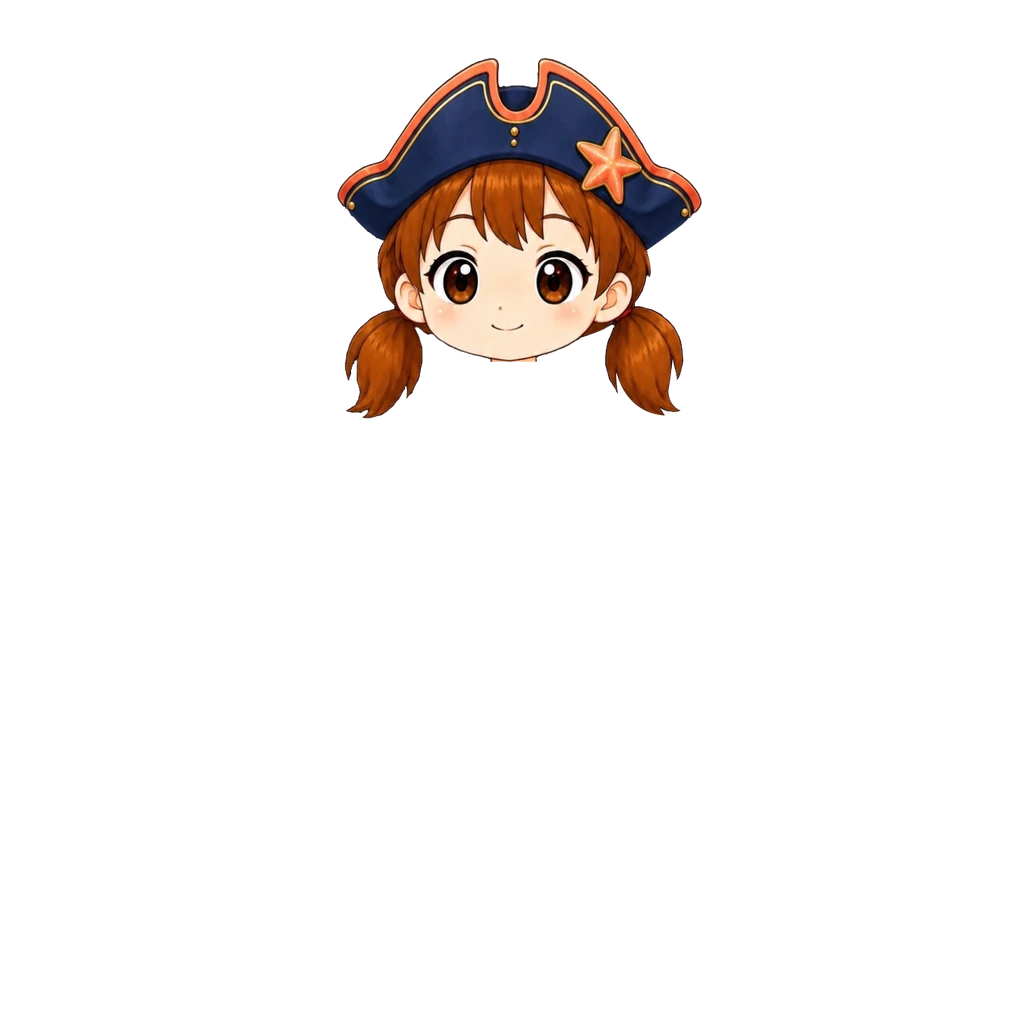
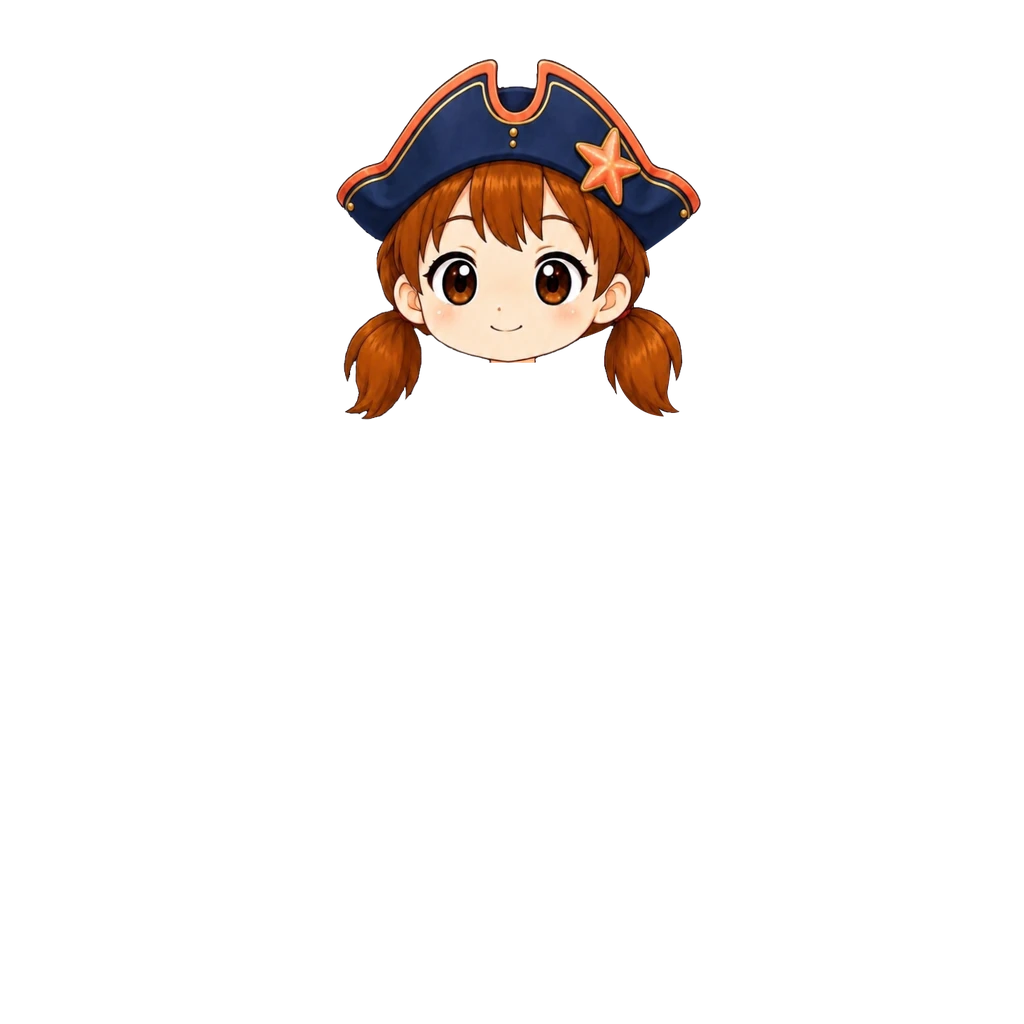
꼬마해적 모자(여아) 아래로 1·왼쪽 1 (#873)
원점 (337,57)→(336,58). img ?v=5.

Claude-Session: https://claude.ai/code/session_018maNuYqDfFyRSe9uKpZhPR

diff --git a/src/data/avatarEquipment.js b/src/data/avatarEquipment.js
@@ -221,8 +221,9 @@ export const AVATAR_CATALOG = [
   { id: "hat_picnic",     slot: "hat",   label: "딸기 밀짚모자", emoji: "👒", price:DECOR_PRICE.rare, rarity: "rare", theme: "picnic", forGender: "girl", hidesHead: true, img: "assets/avatar/hat/picnic-hat-girl.webp?v=4", thumb: "assets/avatar/thumb/hat_picnic.webp" },
   /* [2026-10-04] 꼬마해적 모자 새 원화로 교체 — 남색 삼각 해적모(주황 테두리·불가사리) + 얼굴·양갈래 머리 한 장(사용자 원화 521×517).
      들꽃 머리띠와 같은 방식(hidesHead) — 얼굴 템플릿 매칭(일치 0.948)으로 배율 0.700, 원점 (337,57). 아래는 자르지 않음.
-     탑재 상자 (337,57,702,419). img ?v=4. */
-  { id: "hat_pirate",     slot: "hat",   label: "꼬마해적 모자",   emoji: "🏴☠", price:DECOR_PRICE.epic, rarity: "epic", theme: "pirate", forGender: "girl", hidesHead: true, img: "assets/avatar/hat/pirate-hat-girl.webp?v=4", thumb: "assets/avatar/thumb/hat_pirate.webp" },
+     탑재 상자 (337,57,702,419). img ?v=4.
+     [2026-10-04] 사용자 조정 — 아래로 1·왼쪽으로 1(원점 (336,58)). 탑재 상자 (336,58,701,420). img ?v=5. */
+  { id: "hat_pirate",     slot: "hat",   label: "꼬마해적 모자",   emoji: "🏴☠", price:DECOR_PRICE.epic, rarity: "epic", theme: "pirate", forGender: "girl", hidesHead: true, img: "assets/avatar/hat/pirate-hat-girl.webp?v=5", thumb: "assets/avatar/thumb/hat_pirate.webp" },
   /* 남아 사파리 모자 [2026-10-02] — 모자+얼굴 한 장(사용자 원화)이라 hidesHead: 쓰면 머리카락 머리 장이 빠지고
      민머리 위에 얹힌다(베이스 v10 구조). 얼굴(눈~입) 템플릿 매칭으로 맞춤(배율 0.4065 · 일치 0.970).
      원화에 달린 목은 z50 이라 높은 깃(우주복·후드·도토리)을 덮어서 기본 머리 장처럼 y404 에서 잘랐다. */

diff --git a/art-src/README.md b/art-src/README.md
@@ -378,7 +378,7 @@ getBoundingClientRect로 재서 정한다. 2026-08-05 점검에서 이 기준을
 | pirate-girl-outfit-src.webp | **해적 옷 원화 여아 — 새 판 (사용자 원화 2026-10-02, 이전 판 교체)**. 416×485 투명 배경, 크림 퍼프 블라우스(둥근 깃·주황 리본·금단추) + 주황 허리띠를 맨 남색 반바지 한 벌. 위쪽에 목(턱 없음)이 함께 그려져 있다. 원화 목 외곽선 x177.5~240.5(폭 63, 중심 209)를 여아 목 중심 x512.5 에, 곧은 목선이 끝나는 원화 y15 를 여아 y372 에 맞추고 배율 0.70(목 폭이 같아지는 값 · 흰 수영복도 이 값부터 0). 목 살(r−b>70)과 목 옆선은 원화 y4→20 동안 0→1 페이드. 조각 1개. 탑재 상자 (366,362,657,702) · imgGirl ?v=4 **[2026-10-02 수정판]** 같은 크기의 사용자 수정판으로 덮어씀 — 반바지 밑단 아래(원화 y320~470)가 조금 늘었다. 같은 탑재값, 탑재 상자 (366,362,657,702) · imgGirl ?v=5 | avatar/top/pirate-outfit-girl.webp · thumb/top_pirate-girl.webp |
 | picnic-girl-hat-worn-src.webp | **딸기 밀짚모자 원화 여아 — 새 판 (사용자 원화 2026-10-04, 이전 판 교체)** — 541×526 투명 배경, 밀짚모자(딸기 리본) + 얼굴·양갈래 머리 한 장. hidesHead 로 여아 기본 머리를 대신한다. 얼굴 템플릿 매칭(일치 0.920)으로 배율 0.6800000000000002·원점 (329,68), 아래는 자르지 않음. 탑재 상자 (329,68,697,426) · img ?v=4 | avatar/hat/picnic-hat-girl.webp |
 | picnic-girl-set-worn-src.webp | **딸기 소풍 세트 전신 그림 여아 (사용자 원화 2026-08-20)** — 860×1829, 알파가 머리 부분만 살아 있어서 **RGB의 검정 배경을 흘려 지워** 썼다. 여기서 신발(발목 아래)만 떼어냈다. 바구니는 손에 가려 조각나서 못 썼다 | **(넣었다가 상점에서 뺌 2026-08-20)** — 그림은 avatar/shoes/picnic-shoes-girl.webp 에 그대로 있다 |
-| pirate-girl-hat-worn-src.webp | **꼬마해적 모자 원화 여아 — 새 판 (사용자 원화 2026-10-04, 이전 판 교체)** — 521×517 투명 배경, 남색 삼각 해적모(주황 테두리·불가사리) + 얼굴·양갈래 머리 한 장. hidesHead 로 여아 기본 머리를 대신한다. 얼굴 템플릿 매칭(일치 0.948)으로 배율 0.700·원점 (337,57), 아래는 자르지 않음. 탑재 상자 (337,57,702,419) · img ?v=4 | avatar/hat/pirate-hat-girl.webp |
+| pirate-girl-hat-worn-src.webp | **꼬마해적 모자 원화 여아 — 새 판 (사용자 원화 2026-10-04, 이전 판 교체)** — 521×517 투명 배경, 남색 삼각 해적모(주황 테두리·불가사리) + 얼굴·양갈래 머리 한 장. hidesHead 로 여아 기본 머리를 대신한다. 얼굴 템플릿 매칭(일치 0.948)으로 배율 0.700·원점 (337,57), 아래는 자르지 않음. 탑재 상자 (337,57,702,419) · img ?v=4 **[2026-10-04 조정]** 아래로 1·왼쪽 1(원점 (336,58)) · img ?v=5 | avatar/hat/pirate-hat-girl.webp |
 | safari-boy-outfit-src.webp | **사파리 옷 원화 남아 v2 (사용자 원화 2026-10-02)** — 493×594, 투명 배경, **옷만 오려 낸 그림**(알파 상자 (30,36)-(462,558)). 초록 긴소매(팔꿈치까지 걷음) 티셔츠 + 카키 카고 조끼 + 카키 카고 반바지. 예전 판(크림 셔츠 + 탄색 조끼)을 대체했고 규칙 6에 따라 같은 이름으로 덮어썼다. **목 살 떼기** — 원화 깃 위로 목·쇄골 살이 그려져 있어, 가장 큰 살색 덩어리의 열 범위에서 초록 깃의 위끝을 4차 곡선으로 매끈하게 이은 선 위를 전부 지우고 그 자리에 2px 짙은 갈색(58,44,34) 깃선을 다시 그렸다 — 베이스의 목이 그대로 보인다. **맞춤** — 베이스 v9 남아 기준, 배율·가로배·위치를 격자로 훑어 "안 가려진 흰 속옷×3 + 안 가려진 어깨(y420~540) + 목 살 덮음 + 몸 밖 불룩×0.5"가 최소인 값: 배율 **0.65** · 가로 **1.02배** · 위끝 **y402** · 가로 중심 **515** → 탑재 상자 (372,402)-(658,733). 소매 끝이 팔꿈치(y≈560), 반바지 끝이 허벅지 가운데. **가랑이 V 메움** — y640~715 · x480~550 에서 "베이스 불투명 + 옷 알파<250" 116px 을 반바지 색 (124,114,74) 으로 채웠다(흰 속옷이 비치던 자리). 자홍 배경 검사: 연결 조각 1 · 안쪽 구멍 0. **[사용자 확정 2026-10-02] 격자로 보며 미세 조정** — 3px 내림 → 2% 키움 → 1px 올림 → 배율 **0.663** · 가로 1.02배 · 위끝 **y404** · 중심 515 → 탑재 상자 **(369,404)-(661,741)**. 가랑이 메움은 같은 규칙으로 64px. 몸통 쪽 안 가려진 속옷 1px. 경로 ?v=6 | avatar/top/safari-outfit-boy.webp · thumb/top_vest.webp |
 | safari-boy-outfit-edit-src.webp | **사파리 옷 남아 — 사용자 손질본 (2026-10-02)**. 위 원화를 배율 0.6564 · 가로 1.02배 · 위끝 y404 · 중심 x514 로 얹은 판을 알파 상자대로 잘라(290×335) 보내 드렸더니, 사용자가 **어깨만 살짝 늘려** 돌려준 그림. 캔버스 크기가 그대로라 (370,404) 에 놓으면 원래 판과 어긋남 0 으로 겹친다(알파 차이 379px — 전부 어깨·소매 둘레). **탑재본은 이 그림을 그대로 쓴다** — 원화(위 행)에서 다시 만들면 어깨 손질이 사라진다. **[2026-10-02 재조정]** 손질본을 **1% 확대** — 배율 0.663 · 가로 1.02배 · 위끝 y404 · 중심 x516 (박스 369,404-662,742). 가랑이 V 메움은 하지 않는다 (사용자 확정). 경로 ?v=9 · 썸네일 ?v=5 | avatar/top/safari-outfit-boy.webp · thumb/top_vest.webp |
 | safari-girl-band-worn-src.webp | **들꽃 머리띠 원화 여아 — 새 판 (사용자 원화 2026-10-04, 이전 판 교체)** — 488×486 투명 배경, 초록 리본 머리띠(흰 들꽃) + 얼굴·양갈래 머리 한 장. hidesHead 로 여아 기본 머리를 대신한다. 얼굴 템플릿 매칭(일치 0.976)으로 배율 0.688·원점 (346,87), 아래는 자르지 않음. 탑재 상자 (346,87,682,421) · img ?v=4 | avatar/hat/safari-band-girl.webp |
